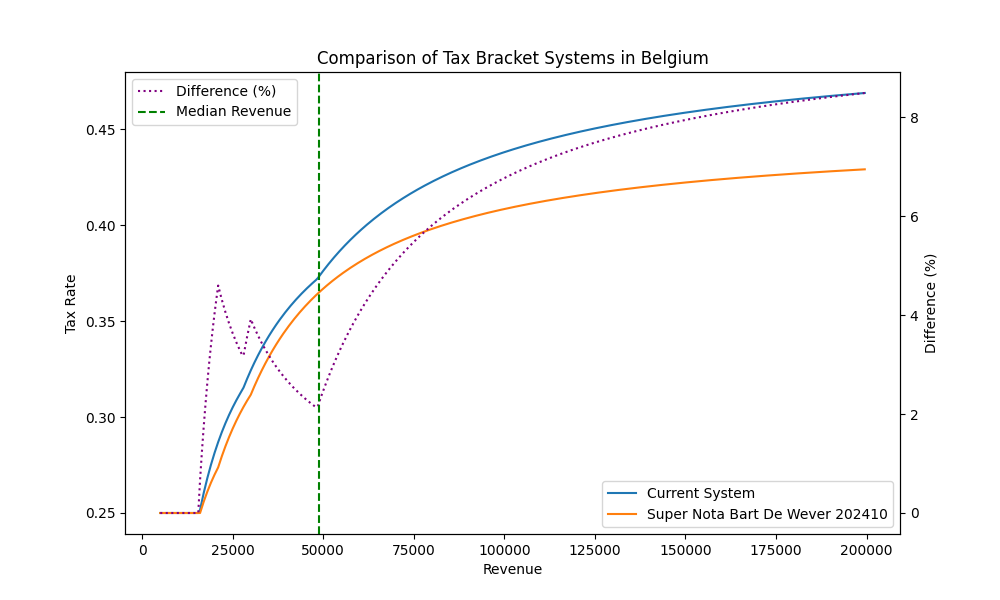
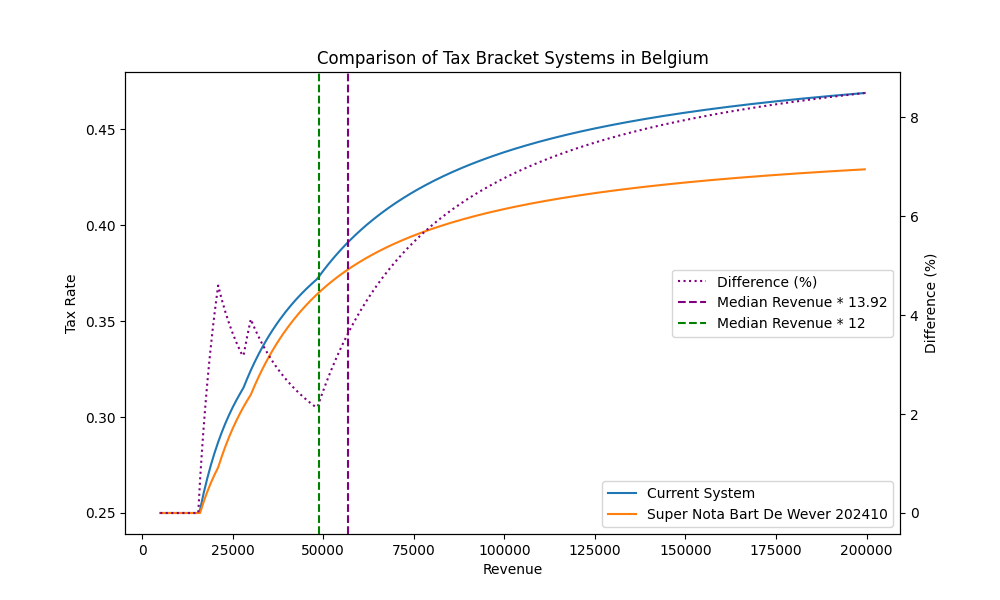
add axvline

Changed region(s): [[0.682, 0.45, 0.899, 0.57], [0.124, 0.12, 0.31, 0.21]]

diff --git a/imposition.py b/imposition.py
@@ -85,10 +85,11 @@ def plot_tax_report(df, output_image) -> None:
     ax2.set_ylabel('Difference (%)')
 
     # Add a line for median revenue at 4,076 euros per month (2022 data statbel)
-    plt.axvline(x=4076 * 12, color='green', linestyle='--', label='Median Revenue')
-
+    plt.axvline(x=4076 * 13.92, color='purple', linestyle='--', label='Median Revenue * 13.92')
+    plt.axvline(x=4076 * 12, color='green', linestyle='--', label='Median Revenue * 12')
+    
     # Add legend
-    plt.legend()
+    plt.legend(loc='center right')
     plt.savefig(output_image)
 
 # Main execution
